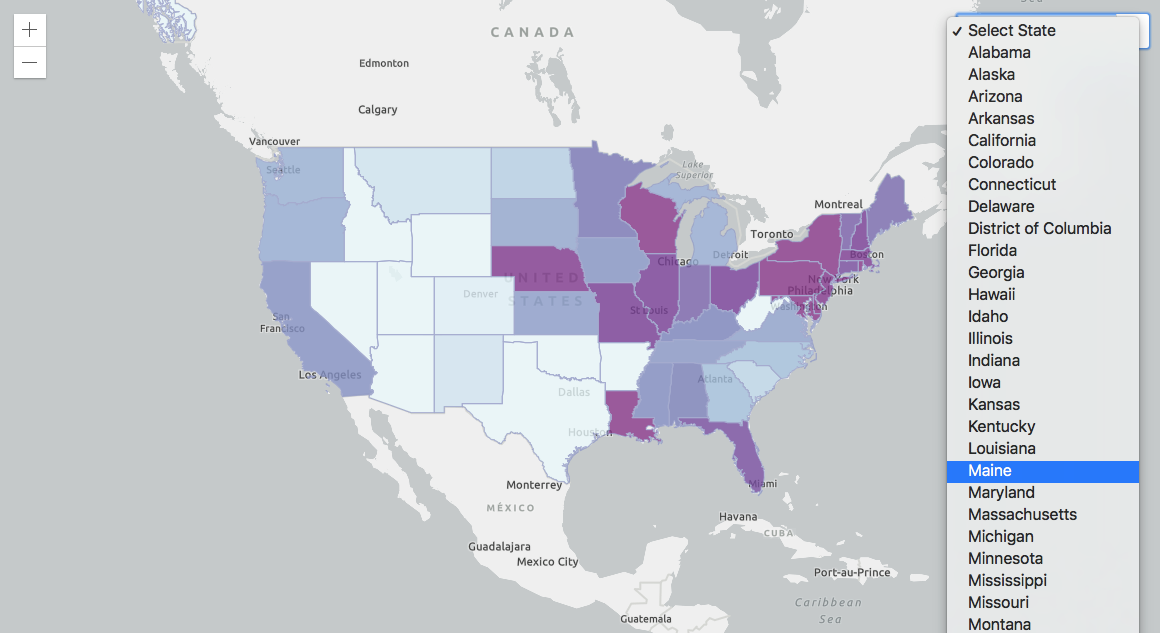
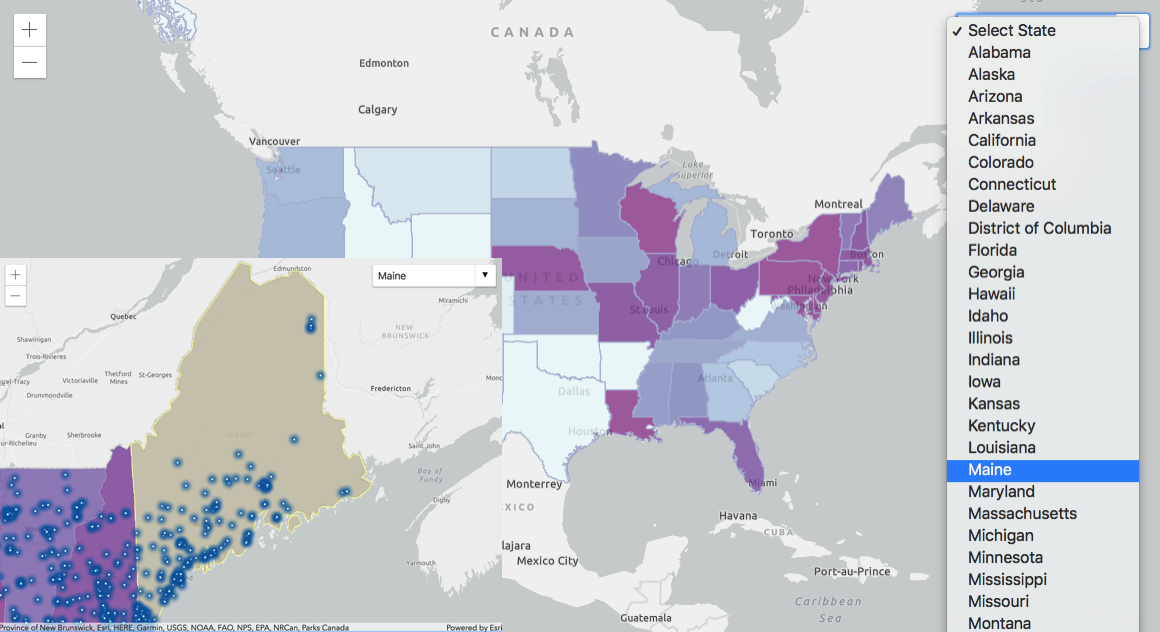
Intro session - minor updates to image and slide content - demo 5

Changed region(s): [[0.0, 0.3908, 0.4345, 1.0], [0.4034, 0.5712, 0.4345, 0.6013]]

diff --git a/Getting-started-web-dev/index.md b/Getting-started-web-dev/index.md
@@ -318,32 +318,32 @@ const featurelayer = new FeatureLayer({
 
 ----
 
-### **Filtering data**
+### **Querying features**
 
-- FeatureLayer definition expressions
-  - Where clause filters features on the client
+- FeatureLayerView
+  - Query and highlight graphics in the view
   - Use with large datasets
 - FeatureLayer <a href="https://developers.arcgis.com/javascript/latest/api-reference/esri-layers-FeatureLayer.html#querying" target="_blank">queries</a>
 </br>
 </br>
 
 <pre style="display:inline-block; padding: 5px; margin: 10px auto; width: 75%;"><code data-trim>
-const select = document.getElementById("selectState");
-select.addEventListener("change", function(e) {
-  const featureId = select.value;
-  const expr = select.value === "" ? "" : "FID = '" + featureId + "'";
-  privateSchoolsPoly.definitionExpression = expr;
-</code></pre>
-<pre style="display:inline-block; padding: 5px; margin: 10px auto; width: 75%;"><code data-trim>
 layerView.queryFeatures(query).then(function(results) {
   results.features.forEach(function(feature) {
     const featureId = feature.attributes.FID;
     ...
 </code></pre>
+<pre style="display:inline-block; padding: 5px; margin: 10px auto; width: 75%;"><code data-trim>
+const select = document.getElementById("selectState");
+select.addEventListener("change", function(e) {
+  const featureId = select.value;
+  highlight = layerView.highlight(parseInt(featureId));
+  ...
+</code></pre>
 
 ----
 
-### **Demo: Filter features within a layer**
+### **Demo: Query features within a layer**
 
 <a href="Demos/Step5_LayerFilter/" target="_blank">
   <img style="float: center;" src="Images/Step5_Demo.png">
